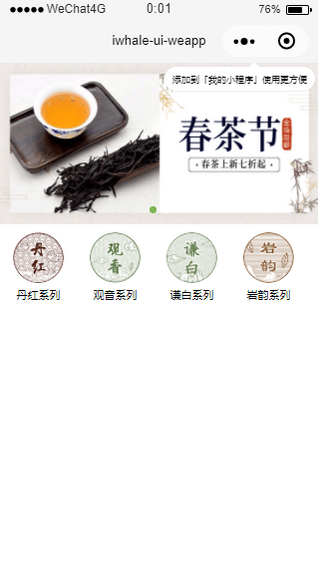
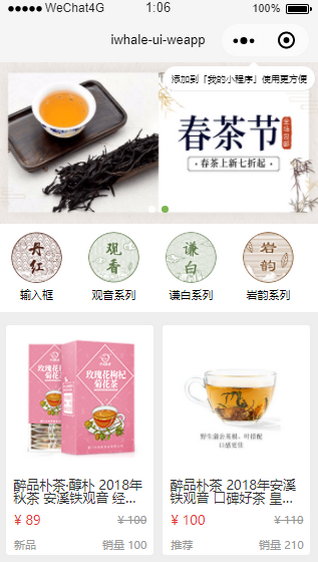
新增商品列表业务组件

diff --git a/pages/index/index.js b/pages/index/index.js
@@ -10,6 +10,10 @@ Page({
       { title: '观音系列', linkType: 'switchTab', url: 'http://aliyun121.icjs.ink/resource/iwhale-ui/iw-menu-tabs-2.png', path: '/pages/discover/index' },
       { title: '谦白系列', linkType: 'switchTab', url: 'http://aliyun121.icjs.ink/resource/iwhale-ui/iw-menu-tabs-3.png', path: '/pages/discover/index' },
       { title: '岩韵系列', linkType: 'switchTab', url: 'http://aliyun121.icjs.ink/resource/iwhale-ui/iw-menu-tabs-4.png', path: '/pages/shoppingcart/index' }
-      ]
+    ],
+    goods: [
+      { title: '醉品朴茶·醇朴 2018年秋茶 安溪铁观音 经典口碑款 清香型 NGY0840-250g', thumb: 'http://aliyun121.icjs.ink/resource/iwhale-ui/goods1.png', price: 89, primeCost: 100, tag: '新品', sales:100 },
+      { title: '醉品朴茶 2018年安溪铁观音 口碑好茶 皇冠100g', thumb: 'http://aliyun121.icjs.ink/resource/iwhale-ui/goods2.png', price: 100, primeCost: 110, tag: '推荐', sales:210 }
+    ]
   }
 })

diff --git a/business-component/iw-goods-item/index.js b/business-component/iw-goods-item/index.js
@@ -1,0 +1,51 @@
+// 商品卡片
+const default_data = {
+  swiperCurrent: 0
+}
+const default_properties = {
+  //商品标题
+  title: {
+    type: String,
+    value: ''
+  },
+  //商品图片
+  thumb: {
+    type: String,
+    value: ''
+  },
+  //商品原价
+  primeCost: {
+    type: String,
+    value: ''
+  },
+  //商品售价
+  price: {
+    type: String,
+    value: ''
+  },
+  //商品标签
+  tag: {
+    type: String,
+    value: '推荐'
+  },
+  //商品销量
+  sales: {
+    type: String,
+    value: ''
+  },
+  //原价显示
+  primeCostVisible: {
+    type: null,
+    value: ''
+  },
+  //底部标签、销量显示
+  footerVisible:{
+    type: null,
+    value: ''
+  }
+}
+Component({
+  properties: {
+    ...default_properties
+  }
+})

diff --git a/README.md b/README.md
@@ -6,12 +6,17 @@
 
 #### 实现
 
+##### 基本组件
+
 * 轮播图
 * 自定义顶部导航栏
 * 菜单标签组
 * 按钮
 * 输入框
 * 数字输入框
+
+##### 业务组件
+* 商品列表
 
 #### 效果
 
